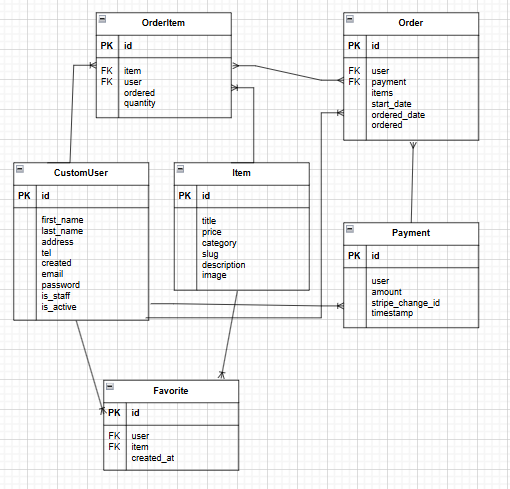
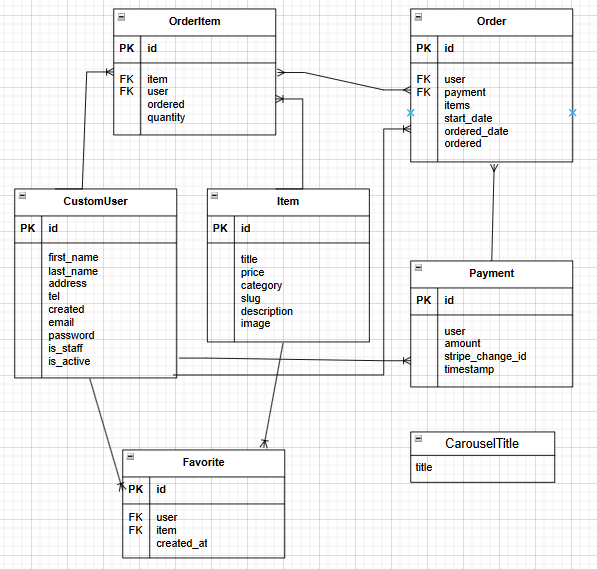
不要なモデルの削除とREADMEの修正

diff --git a/app/models.py b/app/models.py
@@ -14,18 +14,6 @@ class Item(models.Model):
         return self.title
 
 
-class CarouselItem(models.Model):
-    title = models.CharField(max_length=100)
-    price = models.IntegerField()
-    category = models.CharField(max_length=100)
-    slug = models.SlugField()
-    description = models.TextField()
-    image = models.ImageField(upload_to="images")
-
-    def __str__(self):
-        return self.title
-
-
 class CarouselTitle(models.Model):
     title = models.CharField(max_length=100)
 

diff --git a/app/admin.py b/app/admin.py
@@ -2,7 +2,6 @@ from django.contrib import admin
 from .models import Item, OrderItem, Order, Payment, CarouselItem, CarouselTitle, Favorite
 
 admin.site.register(Item)
-admin.site.register(CarouselItem)
 admin.site.register(CarouselTitle)
 admin.site.register(OrderItem)
 admin.site.register(Order)

diff --git a/README.md b/README.md
@@ -110,7 +110,7 @@ ECサイトに主に必要となる機能を考え、実装する。
 
 
 5.コーディング
-- フロントエンド：HTML, CSS(Bootstrapを利用), JavaScript
+- フロントエンド：HTML、 CSS(Bootstrapを利用)、 JavaScript
 - バックエンド：Python(Django)
 - IDE：VSCode
 
